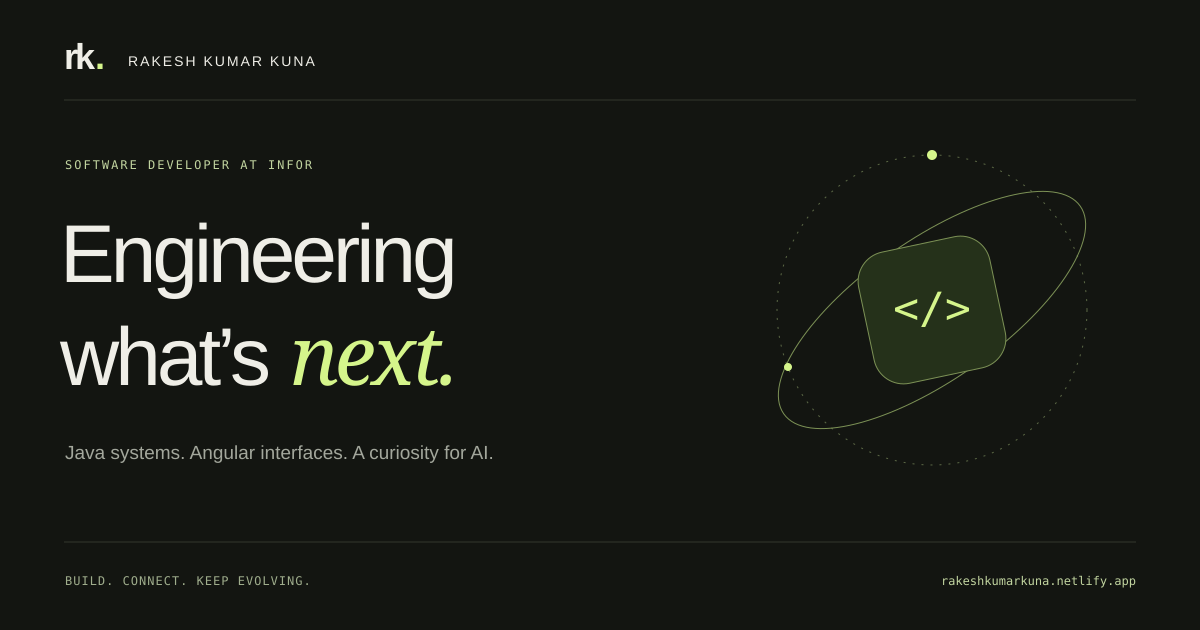
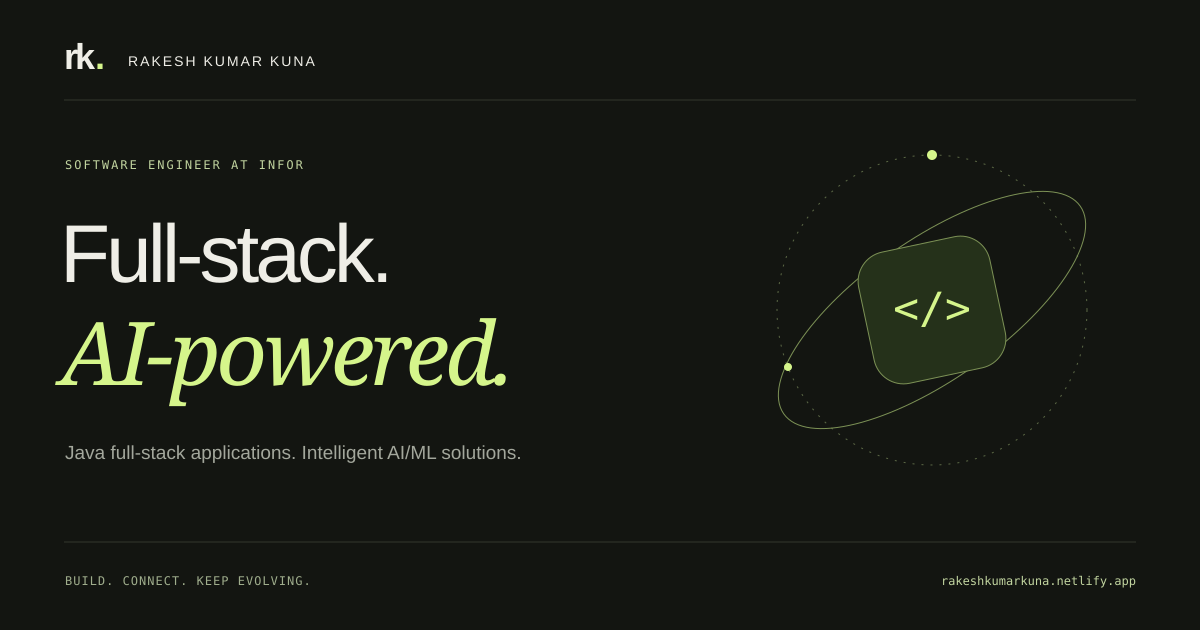
Refine Software Engineer profile and full-stack AI positioning

diff --git a/src/app/home/home.component.html b/src/app/home/home.component.html
@@ -9,7 +9,7 @@
         (click)="closeMenu()"
         ><span class="brand-mark">rk<span>.</span></span
         ><span class="brand-name"
-          >RAKESH KUMAR KUNA<span>SOFTWARE DEVELOPER</span></span
+          >RAKESH KUMAR KUNA<span>{{ profile.role.toUpperCase() }}</span></span
         ></a
       >
       <button
@@ -59,18 +59,16 @@
     <section id="home" class="hero page-width" aria-labelledby="hero-title">
       <div class="hero-copy">
         <div class="eyebrow hero-enter">
-          <span class="status-dot"></span> SOFTWARE DEVELOPER AT INFOR
+          <span class="status-dot"></span> {{ profile.role.toUpperCase() }} AT
+          INFOR
         </div>
         <h1 id="hero-title" class="hero-enter">
-          Engineering <br />what’s <span class="serif-word">next.</span
-          ><span class="title-dot" aria-hidden="true">*</span>
+          Full-stack. <br /><span class="serif-word">AI-powered.</span>
         </h1>
         <p class="hero-description hero-enter">
-          Hi, I’m Rakesh. I connect robust backends,<br class="desktop-break" />
-          thoughtful interfaces, and a curiosity for AI<br
-            class="desktop-break"
-          />
-          to build software that makes a difference.
+          I’m Rakesh, a Software Engineer building Java full-stack applications
+          and intelligent AI/ML solutions. From Spring Boot and Angular to
+          machine learning and AI agents, I connect the entire stack.
         </p>
         <div class="hero-actions hero-enter">
           <a class="button button-primary" href="#experience"
@@ -190,7 +188,7 @@
           >
             <span class="node-icon ai-icon" aria-hidden="true">✳</span
             ><span
-              >AI & ML<span class="node-sublabel">THE NEXT CHAPTER</span></span
+              >AI & ML<span class="node-sublabel">THE INTELLIGENCE</span></span
             ><span class="node-indicator"></span>
           </button>
           <span class="map-coordinate"
@@ -244,8 +242,8 @@
           ><span>Spring Boot</span><span class="strip-divider">/</span
           ><span>Angular</span><span class="strip-divider">/</span
           ><span>TypeScript</span><span class="strip-divider">/</span
-          ><span>SQL</span><span class="strip-divider">/</span
-          ><span>Agentic coding</span>
+          ><span>Python</span><span class="strip-divider">/</span
+          ><span>AI / ML</span>
         </div>
       </div>
     </div>
@@ -288,7 +286,7 @@
             <span class="corner-arrow" aria-hidden="true">↗</span>
           </div>
           <p class="experience-lead">
-            Working on <strong>Infor ION.</strong><br />Growing at the
+            Working on <strong>Infor ION.</strong><br />Engineering at the
             intersection of enterprise software and connected systems.
           </p>
           <div class="experience-details">
@@ -296,24 +294,24 @@
               <span class="detail-index">01</span>
               <h4>Enterprise context</h4>
               <p>
-                Part of the Infor ION project, bringing a developer’s
+                Part of the Infor ION project, bringing a software engineer’s
                 perspective to connected enterprise software.
               </p>
             </div>
             <div>
               <span class="detail-index">02</span>
-              <h4>Full-stack mindset</h4>
+              <h4>Full-stack engineering</h4>
               <p>
-                A foundation in Java and Angular, with an interest in how APIs,
-                interfaces, and data work together.
+                Connecting Java services, Angular interfaces, and data layers
+                through a full-stack approach to software engineering.
               </p>
             </div>
             <div>
               <span class="detail-index">03</span>
-              <h4>Always improving</h4>
+              <h4>Agentic development</h4>
               <p>
-                Developing my craft through hands-on engineering and an evolving
-                AI-assisted coding workflow.
+                Using Kiro and Claude Code across the development workflow, with
+                engineering judgment guiding implementation and review.
               </p>
             </div>
           </div>
@@ -346,14 +344,14 @@
           <div>
             <p class="eyebrow section-label"><span>02 /</span> WHAT I BRING</p>
             <h2 id="expertise-title">
-              Depth in the stack.<br /><span class="muted"
-                >Curiosity beyond it.</span
+              Full-stack expertise.<br /><span class="muted"
+                >Applied intelligence.</span
               >
             </h2>
           </div>
           <p class="section-intro">
-            From the first API call to the final interaction.<br />And the tools
-            that make building better.
+            Java and Angular. Machine learning and AI.<br />Engineering across
+            the application and intelligence layers.
           </p>
         </div>
         <div class="capability-grid">
@@ -395,6 +393,8 @@
             <li>Jenkins / CI/CD</li>
             <li>Linux</li>
             <li>MongoDB</li>
+            <li>Kiro</li>
+            <li>Claude Code</li>
           </ul>
           <span class="workflow-icon" aria-hidden="true">↗</span>
         </div>
@@ -410,8 +410,8 @@
           <span>03 /</span> THE PERSON BEHIND THE CODE
         </p>
         <h2 id="about-title">
-          A builder.<br />A problem solver.<br /><span class="serif-word"
-            >Always a learner.</span
+          A builder.<br />A systems thinker.<br /><span class="serif-word"
+            >An AI practitioner.</span
           >
         </h2>
         <div class="about-signature">
@@ -421,19 +421,19 @@
       </div>
       <div class="about-right" data-reveal>
         <p class="about-lead">
-          I like understanding how things work.<br />Then finding ways to make
-          them work better.
+          Strong software foundations.<br />Intelligence built into the product.
         </p>
         <p>
-          I’m Rakesh Kumar Kuna, a software developer based in India. My
-          foundation is in Java and full-stack development, and I’m currently
-          working on the Infor ION project at Infor.
+          I’m Rakesh Kumar Kuna, a Software Engineer based in India, working on
+          the Infor ION project at Infor. My expertise spans Java full-stack
+          development and AI/ML engineering, connecting application architecture
+          with intelligent systems.
         </p>
         <p>
-          What keeps me interested is the space between disciplines: how a
-          backend shapes an interface, how systems connect, and how AI can
-          change the way we build. I use agentic coding tools like Kiro and
-          Claude Code as part of that exploration.
+          I work across backend services, Angular interfaces, machine learning,
+          and LLM-powered applications. Python, retrieval-augmented generation,
+          and AI agents extend that stack, while Kiro and Claude Code support
+          how I design, implement, and refine software.
         </p>
         <div class="about-facts">
           <div>
@@ -444,11 +444,11 @@
             </p>
           </div>
           <div>
-            <span class="eyebrow">CURRENT CURIOSITY</span>
+            <span class="eyebrow">CORE SPECIALIZATION</span>
             <h3>Applied AI & machine learning</h3>
             <p>
-              Exploring Python, AI agents, and the path from models to useful
-              applications.
+              Python, machine learning, LLM applications, and agentic systems
+              integrated with full-stack software.
             </p>
           </div>
         </div>

diff --git a/src/index.html b/src/index.html
@@ -2,12 +2,14 @@
 <html lang="en">
   <head>
     <meta charset="utf-8" />
-    <title>Rakesh Kumar Kuna — Software Developer</title>
+    <title>
+      Rakesh Kumar Kuna — Software Engineer | Java Full-Stack & AI/ML
+    </title>
     <base href="/" />
     <meta name="viewport" content="width=device-width, initial-scale=1" />
     <meta
       name="description"
-      content="Rakesh Kumar Kuna — software developer at Infor, working on Infor ION. Java, Spring Boot, Angular, and a growing focus on AI and agentic development."
+      content="Rakesh Kumar Kuna — Software Engineer at Infor, working on Infor ION. Java full-stack and AI/ML engineering with Spring Boot, Angular, Python, LLMs, and AI agents."
     />
     <meta name="theme-color" content="#131511" />
     <link rel="canonical" href="https://rakeshkumarkuna.netlify.app/" />
@@ -22,11 +24,11 @@
     <meta property="og:type" content="website" />
     <meta
       property="og:title"
-      content="Rakesh Kumar Kuna — Engineering what’s next."
+      content="Rakesh Kumar Kuna — Full-stack. AI-powered."
     />
     <meta
       property="og:description"
-      content="Java systems. Angular interfaces. A curiosity for AI. Explore my experience and approach to building connected software."
+      content="Software Engineer specializing in Java full-stack applications and AI/ML solutions. Spring Boot, Angular, Python, machine learning, and agentic systems."
     />
     <meta property="og:url" content="https://rakeshkumarkuna.netlify.app/" />
     <meta
@@ -37,7 +39,7 @@
     <meta property="og:image:height" content="630" />
     <meta
       property="og:image:alt"
-      content="Rakesh Kumar Kuna — Engineering what’s next. Java, Angular, AI."
+      content="Rakesh Kumar Kuna — Software Engineer. Full-stack. AI-powered."
     />
     <meta name="twitter:card" content="summary_large_image" />
   </head>
@@ -45,9 +47,9 @@
     <app-root></app-root>
     <noscript
       ><p style="padding: 3rem; font-family: Arial, sans-serif">
-        Rakesh Kumar Kuna — Software Developer at Infor, working on Infor ION
-        since April 2025. Java, Spring Boot, Angular, and AI-assisted
-        development. Contact:
+        Rakesh Kumar Kuna — Software Engineer at Infor, working on Infor ION
+        since April 2025. Java full-stack and AI/ML engineering with Spring
+        Boot, Angular, Python, and AI agents. Contact:
         <a href="mailto:kunarakeshkumar@gmail.com">kunarakeshkumar@gmail.com</a
         >. Enable JavaScript to explore the full portfolio.
       </p></noscript

diff --git a/src/app/profile.data.ts b/src/app/profile.data.ts
@@ -1,7 +1,7 @@
 // Keep public profile copy here. Add accomplishments only when they can be verified.
 export const profile = {
   name: 'Rakesh Kumar Kuna',
-  role: 'Software Developer',
+  role: 'Software Engineer',
   email: 'kunarakeshkumar@gmail.com',
   github: 'https://github.com/RakeshKumarKuna',
   linkedIn: 'https://www.linkedin.com/in/rakesh-kumar-kuna-4b1a6a1b2/',
@@ -56,15 +56,22 @@ export const capabilities = [
   {
     id: 'ai',
     number: '03',
-    title: 'A smarter way to build.',
-    label: 'AI & agentic development',
+    title: 'Intelligence, engineered.',
+    label: 'AI & ML engineering',
     description:
-      'Using Kiro and Claude Code in development, while exploring machine learning and agentic applications.',
-    skills: ['Kiro', 'Claude Code', 'AI-assisted coding', 'Prompt engineering'],
-    note: 'Exploring next: Python, ML, RAG & AI agents.',
-    diagramLabel: 'AI / AGENTIC WORKFLOWS',
-    diagramTitle: 'Curiosity meets capability.',
+      'Building intelligent applications with Python, machine learning, and LLMs. Connecting models, retrieval, and AI agents to real product experiences.',
+    skills: [
+      'Python',
+      'Machine learning',
+      'LLMs',
+      'RAG',
+      'AI agents',
+      'Prompt engineering',
+    ],
+    note: 'Agentic coding with Kiro & Claude Code.',
+    diagramLabel: 'AI / ML ENGINEERING',
+    diagramTitle: 'Intelligence, built into the stack.',
     diagramDescription:
-      'AI-assisted development today. Exploring intelligent applications next.',
+      'Machine learning, LLM applications, and AI agents connected to full-stack software.',
   },
 ] as const;

diff --git a/tests/portfolio.spec.ts b/tests/portfolio.spec.ts
@@ -8,7 +8,7 @@ test('profile renders without errors or removed project content', async ({
   page.on('pageerror', (error) => errors.push(error.message));
   await page.goto('/');
   await expect(page.getByRole('heading', { level: 1 })).toHaveText(
-    'Engineering what’s next.*',
+    'Full-stack. AI-powered.',
   );
   await expect(page.locator('#experience')).toContainText(
     'APRIL 2025 — PRESENT',
@@ -32,9 +32,9 @@ test('stack nodes update the accessible detail panel', async ({ page }) => {
   await expect(
     page.getByRole('button', { name: 'Angular THE EXPERIENCE' }),
   ).toHaveAttribute('aria-pressed', 'true');
-  await page.getByRole('button', { name: 'AI & ML THE NEXT CHAPTER' }).click();
+  await page.getByRole('button', { name: 'AI & ML THE INTELLIGENCE' }).click();
   await expect(page.locator('.visual-detail')).toContainText(
-    'Curiosity meets capability.',
+    'Intelligence, built into the stack.',
   );
   await page.getByRole('button', { name: 'Java THE FOUNDATION' }).click();
   await expect(page.locator('.visual-detail')).toContainText(

diff --git a/README.md b/README.md
@@ -33,7 +33,7 @@ Old `/Home`, `/About`, `/Works`, `/Works/project1`, `/Works/project2`, and `/Con
 - `src/index.html`: title, description, and social-sharing metadata.
 - `public/`: favicon, social image, sitemap, and robots file.
 
-Infor / Infor ION and April 2025–present come from the profile owner's information. “Software Developer” is a provisional general role label. AI-assisted coding with Kiro and Claude Code is presented separately from exploratory ML, Python, RAG, and agents. Replace exploratory language only when the corresponding experience is established. No invented performance metrics or confidential project details are included. The LinkedIn URL was carried over from the previous portfolio and should be confirmed by the owner.
+The owner confirmed the Software Engineer title, Infor / Infor ION, April 2025–present, and positioning across Java full-stack and AI/ML engineering. Agentic coding with Kiro and Claude Code appears in the development workflow. No invented performance metrics or confidential project details are included. The LinkedIn URL was carried over from the previous portfolio and should be confirmed by the owner.
 
 Legacy profile photos and project assets are retained in source for reference, but excluded from the deployed build. The old warehouse project and its routes' content have been removed.
 
